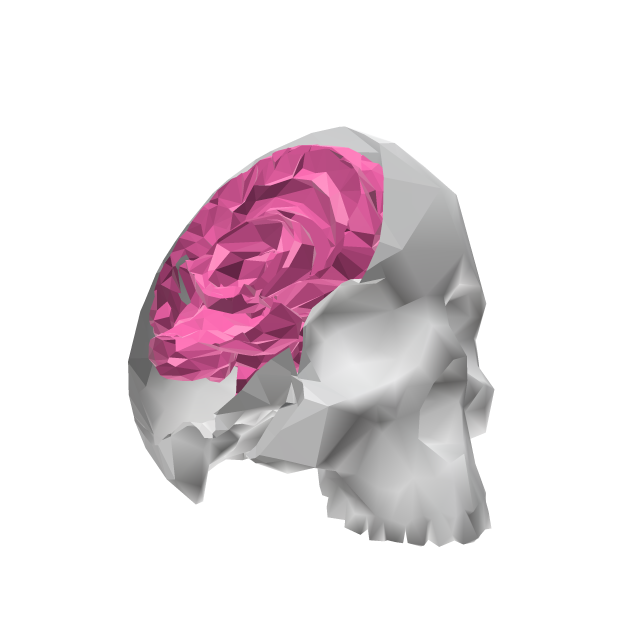
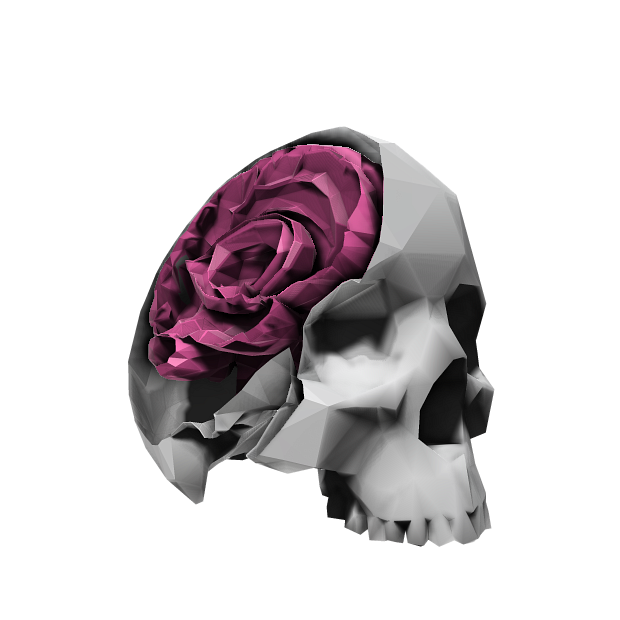
docs: gallery renders with SSAO and cast shadows; re-rendered Cyclone

Changed region(s): [[0.2145, 0.1839, 0.7968, 0.8887], [0.7048, 0.3065, 0.7355, 0.3371]]

diff --git a/crates/maquette/maquette/README.md b/crates/maquette/maquette/README.md
@@ -59,17 +59,17 @@ A back-lit Stanford bunny: a red point light placed *inside* the model glows thr
 <sub><b>Multi-view grid</b> — front / right / top / isometric on one sheet</sub>
 </td>
 <td align="center" width="50%">
-<img src="https://raw.githubusercontent.com/bernsteining/maquette/master/examples/gallery_groups.png?v=3" width="100%" alt="Per-group appearance" /><br/>
+<img src="https://raw.githubusercontent.com/bernsteining/maquette/master/examples/gallery_groups.png?v=4" width="100%" alt="Per-group appearance" /><br/>
 <sub><b>Per-group appearance</b> — per-part colour, stroke &amp; opacity from OBJ groups</sub>
 </td>
 </tr>
 <tr>
 <td align="center">
-<img src="https://raw.githubusercontent.com/bernsteining/maquette/master/examples/gallery_scalar.png?v=2" width="100%" alt="Scalar color map" /><br/>
+<img src="https://raw.githubusercontent.com/bernsteining/maquette/master/examples/gallery_scalar.png?v=3" width="100%" alt="Scalar color map" /><br/>
 <sub><b>Scalar color map</b> — a math expression <code>f(x,y,z)</code> over a custom palette</sub>
 </td>
 <td align="center">
-<img src="https://raw.githubusercontent.com/bernsteining/maquette/master/examples/gallery_clip.png?v=2" width="100%" alt="Clipping plane" /><br/>
+<img src="https://raw.githubusercontent.com/bernsteining/maquette/master/examples/gallery_clip.png?v=3" width="100%" alt="Clipping plane" /><br/>
 <sub><b>Clipping plane</b> — a mathematical cut opens the model to its interior</sub>
 </td>
 </tr>

diff --git a/crates/maquette-scad/maquette-scad/README.md b/crates/maquette-scad/maquette-scad/README.md
@@ -103,7 +103,7 @@ rotate([0, 90, 0]) rod(hole, len);
 ```
 
 </td>
-<td><img src="https://raw.githubusercontent.com/bernsteining/maquette/master/docs/cyclone-example.png?v=2" width="300" alt="Cyclone-PCB-Factory CNC mill, a full multi-file OpenSCAD project" /></td>
+<td><img src="https://raw.githubusercontent.com/bernsteining/maquette/master/docs/cyclone-example.png?v=3" width="300" alt="Cyclone-PCB-Factory CNC mill, a full multi-file OpenSCAD project" /></td>
 </tr>
 </table>
 
